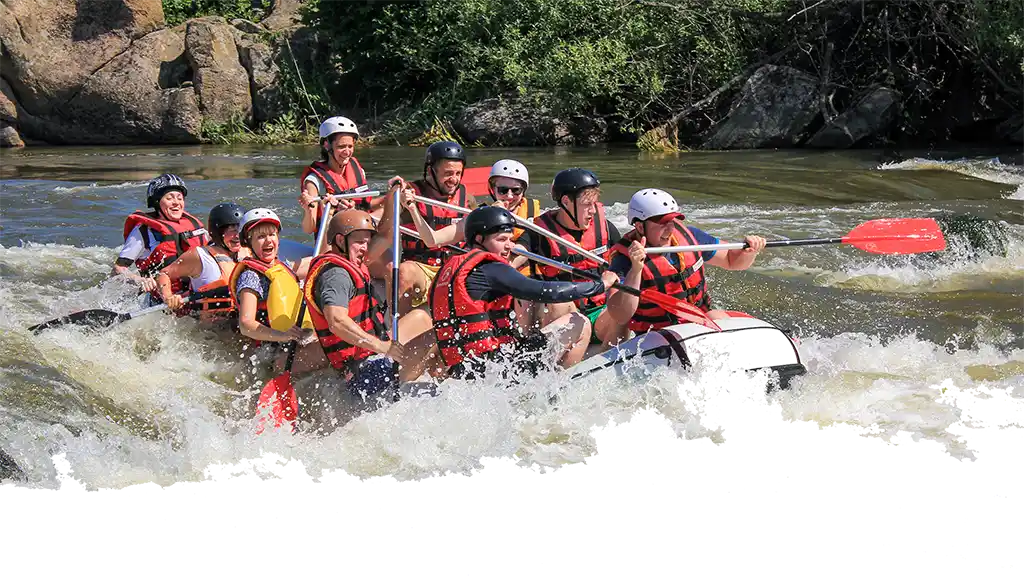
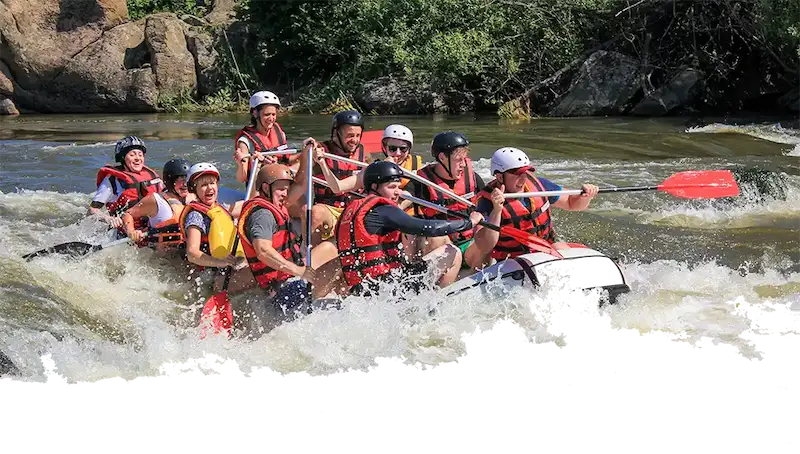
Optimized Images and Made W04 About Us Page Changes.

diff --git a/wwr/about.html b/wwr/about.html
@@ -37,19 +37,44 @@
                     harum ipsum illo incidunt?</p>
             </article>
         </div>
-        <section>
+        <section class="history">
             <h2>History</h2>
-            <p>Lorem ipsum dolor sit amet consectetur adipisicing elit. Dicta, quo quam. Adipisci quae quam, optio quis
-                asperiores natus cum dignissimos culpa, praesentium dolore quas labore excepturi sunt eius vero magnam!
-            </p>
+            <div class="history_content">
+                <p>Lorem ipsum dolor sit amet consectetur adipisicing elit. Dicta, quo quam. Adipisci quae quam, optio
+                    quis
+                    asperiores natus cum dignissimos culpa, praesentium dolore quas labore excepturi sunt eius vero
+                    magnam!
+                </p>
+                <img src="images/history.jpg" alt="History of Handy Golf">
+                <p>Lorem ipsum dolor sit amet, consectetur adipisicing elit. Facilis perferendis inventore placeat
+                    dolorem nobis enim? Sunt dignissimos iste expedita, alias voluptate consectetur consequuntur
+                    reprehenderit culpa, tenetur consequatur, ullam eaque quos!</p>
+            </div>
         </section>
-        <section>
+        <section class="adventure">
             <h2>Adventure Awaits You!</h2>
-            <img src="images/rafting1.jpg" alt="An amazing picture of white water rafting!">
-            <img src="images/rafting2.jpg" alt="An amazing picture of white water rafting!">
-            <img src="images/rafting3.jpg" alt="An amazing picture of white water rafting!">
-            <img src="images/rafting4.jpg" alt="An amazing picture of white water rafting!">
-            <img src="images/rafting5.jpg" alt="An amazing picture of white water rafting!">
+            <div class="adventure_content">
+                <figure>
+                    <img src="images/rafting1.jpg" alt="Narrow Escapes!">
+                    <figcaption>Narrow Escapes!</figcaption>
+                </figure>
+                <figure>
+                    <img src="images/rafting2.jpg" alt="Amazing Rapids!">
+                    <figcaption>Amazing Rapids!</figcaption>
+                </figure>
+                <figure>
+                    <img src="images/rafting3.jpg" alt="An excellent team building activity.">
+                    <figcaption>An excellent team building activity.</figcaption>
+                </figure>
+                <figure>
+                    <img src="images/rafting4.jpg" alt="You will get soaked!">
+                    <figcaption>You will get soaked!</figcaption>
+                </figure>
+                <figure>
+                    <img src="images/rafting5.jpg" alt="Rest stops along the river bank.">
+                    <figcaption>Rest stops along the river bank.</figcaption>
+                </figure>
+            </div>
         </section>
     </main>
     <footer>

diff --git a/wwr/styles/rafting.css b/wwr/styles/rafting.css
@@ -11,6 +11,12 @@
     --accent2-color-transparent: #CAF0F899;
 }
 
+* {
+    font-family: "Winky Sans", sans-serif;
+    font-weight: 400;
+    font-style: normal;
+}
+
 h1,
 h2,
 h3,
@@ -34,28 +40,52 @@ h1 {
     border-bottom: solid 3px var(--primary-color-transparent);
 }
 
+header {
+    display: grid;
+    grid-template-columns: 250px 1fr;
+    align-items: center;
+}
+
+header img {
+    width: 250px;
+    height: auto;
+}
+
+header nav {
+    display: flex;
+    justify-content: center;
+}
+
 header nav a {
     font-family: "Bebas Neue", sans-serif;
     font-weight: 400;
     font-style: normal;
     color: var(--primary-color);
     text-decoration: none;
+    padding: 4px 30px;
+    border: solid 1px var(--primary-color);
 }
 
 header nav a:hover {
-    color: var(--secondary-color);
+    background-color: var(--accent1-color);
     text-decoration: underline;
 }
 
 p {
     color: var(--secondary-color);
-    font-family: "Winky Sans", sans-serif;
-    font-weight: 400;
-    font-style: normal;
+}
+
+main article p {
+    color: black;
 }
 
 .sociallinks a {
     text-decoration: none;
+}
+
+.sociallinks img {
+    height: 30px;
+    width: auto;
 }
 
 body {
@@ -89,4 +119,68 @@ body {
 .hero article img {
     float: right;
     width: 200px;
+}
+
+.history {
+    display: flex;
+    flex-direction: column;
+}
+
+.history h2 {
+    text-align: center;
+}
+
+.history_content {
+    display: flex;
+    flex-direction: row;
+}
+
+.history_content p,
+.history_content img {
+    padding: 10px 20px;
+}
+
+.history_content img {
+    width: 250px;
+    height: auto;
+}
+
+.adventure {
+    display: flex;
+    flex-direction: column;
+}
+
+.adventure h2 {
+    text-align: center;
+}
+
+.adventure_content {
+    display: flex;
+    justify-content: space-between;
+}
+
+.adventure_content figure {
+    width: 140px;
+    margin: 0;
+}
+
+.adventure_content img {
+    width: 140px;
+    height: auto;
+}
+
+footer {
+    display: grid;
+    grid-template-columns: 100px auto 100px;
+    margin-top: 20px;
+    align-items: center;
+}
+
+footer p {
+    grid-column: 2/3;
+    text-align: center;
+}
+
+footer nav {
+    grid-column: 3/4;
 }
